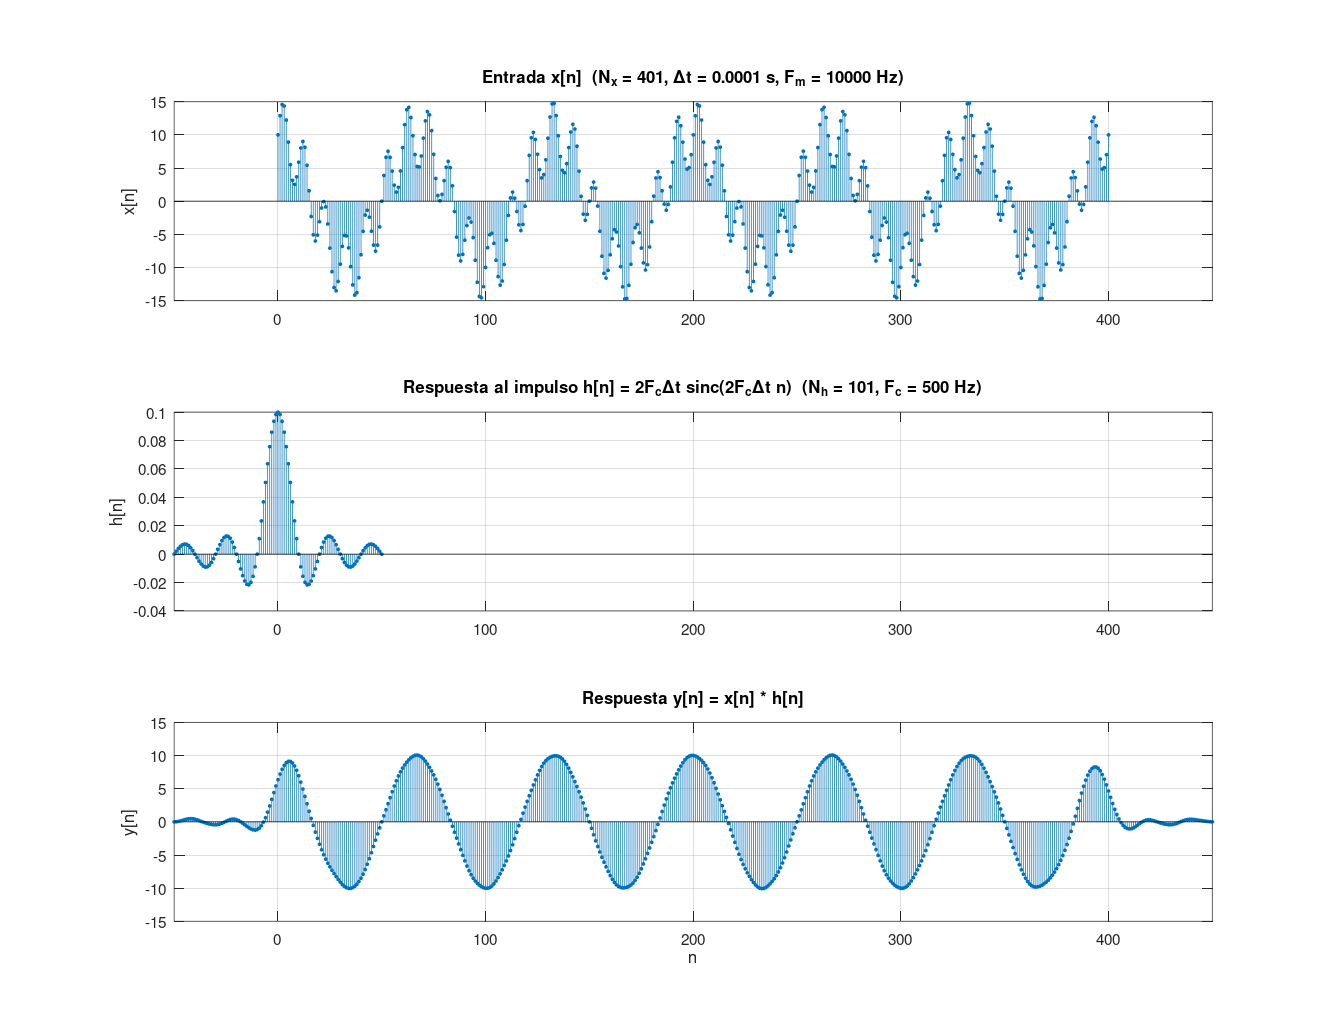
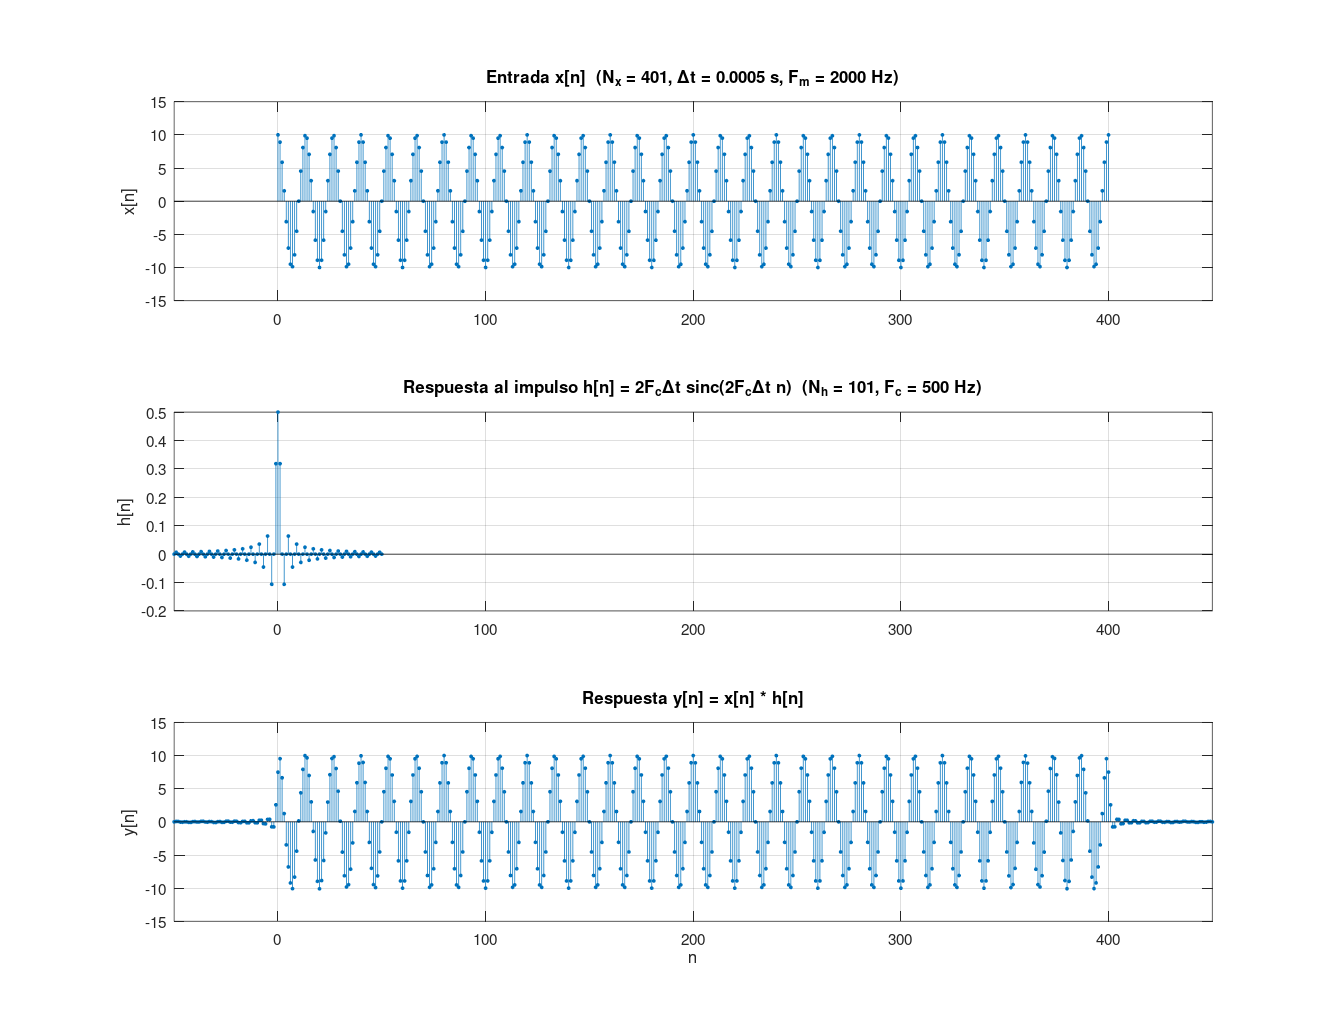
Reducir las variantes del ejercicio 2 a 4 gráficos

diff --git a/ej2_variantes.m b/ej2_variantes.m
@@ -8,12 +8,14 @@
 %    diferencias y sacar conclusiones."
 %
 % CÓMO SE RESUELVE
-%   Este archivo es un SCRIPT (no una función) que llama varias veces a la
-%   función ej2(dt, Nh, Fc) con distintos parámetros. Cada llamada abre
-%   una ventana de gráficos nueva.
+%   El caso base (dt = 0.0001, Nh = 101) es el que ya grafica ej2.m, así
+%   que acá no se repite. Este script abre solo 4 gráficos:
+%     a) dt = 0.0005 y dt = 0.001   (con Nh = 101)     -> 2 gráficos
+%     b) Nh = 21 y Nh = 201         (con dt = 0.0001)  -> 2 gráficos
+%   Cada llamada a la función ej2(dt, Nh) abre una ventana nueva.
 %
 % SINTAXIS NUEVA EN ESTE ARCHIVO
-%   for v = [a b c]      -> repite el bloque con v = a, después v = b, ...
+%   for v = [a b]        -> repite el bloque con v = a y después con v = b
 %     ...
 %   end
 %   printf(formato, valores) -> imprime texto con formato en la consola
@@ -33,14 +35,13 @@ clear; clc; close all;
 %   2*Fc*dt            -> el factor que aparece en h[n] = 2FcΔt sinc(2FcΔt n)
 %   max|y|             -> amplitud de la salida
 %
-% RESULTADOS (corridos en Octave 11.3):
-%   dt = 0.0001  Fm = 10000 Hz  2*Fc*dt = 0.10  max|y| = 10.078
+% RESULTADOS (corridos en Octave 11.3; el caso base dt = 0.0001 da 10.078):
 %   dt = 0.0005  Fm =  2000 Hz  2*Fc*dt = 0.50  max|y| = 10.089
 %   dt = 0.001   Fm =  1000 Hz  2*Fc*dt = 1.00  max|y| = 10.000
 %
 % INTERPRETACIÓN (lo más importante para las conclusiones)
-%   * dt = 0.0001 (Fm = 10 kHz): caso "bueno". Nyquist = Fm/2 = 5000 Hz,
-%     ambas componentes están bien representadas y el filtro elimina la de
+%   * Caso base dt = 0.0001 (Fm = 10 kHz, en ej2.m): Nyquist = 5000 Hz,
+%     ambas componentes bien representadas y el filtro elimina la de
 %     1000 Hz. La salida es ~10 cos(2π·150·t).
 %
 %   * dt = 0.0005 (Fm = 2 kHz): Nyquist = 1000 Hz, ¡justo la frecuencia de
@@ -55,7 +56,7 @@ clear; clc; close all;
 %     y = x (por eso max|y| = 10 exacto). Fc = 500 Hz coincide con Nyquist:
 %     el filtro deja pasar todo lo que se puede representar.
 %
-%   CONCLUSIÓN: en los dos últimos casos la salida se ve "limpia", pero no
+%   CONCLUSIÓN: en estos dos casos la salida se ve "limpia", pero no
 %   gracias al filtro sino al muestreo. Si la componente alta fuera un
 %   coseno en vez de un seno, no se anularía: aparecería disfrazada como
 %   otra frecuencia (alias), y el filtro ya no podría separarla. Moraleja:
@@ -63,7 +64,7 @@ clear; clc; close all;
 %   Otra diferencia visible: con las mismas 401 muestras, la ventana dura
 %   0.04 s, 0.2 s y 0.4 s respectivamente (Nx·dt), así que se ven 6, 30 y
 %   60 periodos de la componente de 150 Hz.
-for dt = [0.0001 0.0005 0.001]
+for dt = [0.0005 0.001]
   % Llama a ej2 y se queda solo con las dos primeras salidas (ny, y).
   [ny, y] = ej2(dt, 101);
   printf('dt = %-7g  Fm = %6g Hz  2*Fc*dt = %4.2f  max|y| = %6.3f\n', ...
@@ -71,7 +72,8 @@ for dt = [0.0001 0.0005 0.001]
 end
 
 % --- b) Variación del largo del núcleo (dt = 0.0001, Fc = 500 Hz) --------
-% Se repite con Nh = 21, 51 y 201 (el caso base era 101).
+% Se prueba un Nh más chico (21) y uno más grande (201) que el caso base
+% (101), para ver el efecto en las dos direcciones.
 % Acá no se piden salidas: ej2(...) solo abre los gráficos.
 %
 % QUÉ OBSERVAR
@@ -86,14 +88,12 @@ end
 %   * Costo de un Nh grande: más cuentas (cada y[n] suma Nh productos) y
 %     transitorios más largos en los bordes de y[n] (duran ~Nh muestras),
 %     y la salida total es más larga (Nx + Nh - 1).
-for Nh = [21 51 201]
+for Nh = [21 201]
   ej2(0.0001, Nh);
 end
 
-% --- c) Caso del ejemplo del enunciado: Fc = 1000 Hz ---------------------
-% Fc coincide con la frecuencia de la componente de 1000 Hz, por lo que
-% esa componente queda en el borde de la banda y pasa atenuada a la mitad.
-% (En el corte, la respuesta en frecuencia del filtro truncado vale ~0.5,
-%  a medio camino entre 1 (banda de paso) y 0 (banda eliminada). Por eso
-%  conviene elegir Fc bien en el medio, como los 500 Hz de los casos a y b.)
-ej2(0.0001, 101, 1000);
+% NOTA: el caso Fc = 1000 Hz (el ejemplo del enunciado) no se grafica acá
+% porque la consigna no pide variar Fc. Si lo piden en la defensa:
+%   >> ej2([], [], 1000)
+% La componente de 1000 Hz cae justo en el corte, donde la respuesta en
+% frecuencia vale ~0.5, y pasa atenuada a la mitad (amplitud ~2.5).

diff --git a/GUIA_DE_ESTUDIO.md b/GUIA_DE_ESTUDIO.md
@@ -175,7 +175,7 @@ y[n] :  0  1  3  6 10 15 15 14 12  9  5
 
 ## 4. Ejercicio 2: filtrado con una sinc
 
-**Archivos:** [`ej2.m`](ej2.m) (función) y [`ej2_variantes.m`](ej2_variantes.m) · **Figuras:** `ej2_1.png` y `ej2_variantes_1.png` a `_7.png`
+**Archivos:** [`ej2.m`](ej2.m) (función) y [`ej2_variantes.m`](ej2_variantes.m) · **Figuras:** `ej2_1.png` (caso base) y `ej2_variantes_1.png` a `_4.png`
 
 ### Consigna
 
@@ -206,6 +206,8 @@ y[n] :  0  1  3  6 10 15 15 14 12  9  5
 
 ### Variantes de Δt (Nh = 101, Fc = 500 Hz)
 
+`ej2_variantes.m` grafica solo los dos valores nuevos (0.0005 y 0.001). El de 0.0001 es el caso base que ya grafica `ej2.m`, y se incluye en la tabla para comparar.
+
 | Δt | Fm | Nyquist | 2·Fc·Δt | max\|y\| | Qué pasa |
 |---|---|---|---|---|---|
 | 0.0001 | 10 kHz | 5000 Hz | 0.1 | 10.078 | Caso correcto: el filtro elimina los 1000 Hz |
@@ -218,11 +220,15 @@ Otra diferencia: con las mismas 401 muestras, la ventana dura 0.04 s, 0.2 s y 0.
 
 ### Variantes de Nh (Δt = 0.0001)
 
+Se grafica un valor menor y uno mayor que el caso base (Nh = 101), para ver el efecto en las dos direcciones:
+
 - **Nh = 21:** entra poco más que el lóbulo central de la sinc, y el filtro es muy pobre. Deja pasar ~6 % de la componente de 1000 Hz y amplifica ~9 % la de 150 Hz (sobrepico de Gibbs). La salida se aparta hasta 1.2 de la ideal.
-- **Nh = 51, 101, 201:** cada vez más parecido al filtro ideal, con salida más limpia.
+- **Nh = 201:** la sinc está mucho más completa. El filtro se parece más al ideal y la salida es más limpia.
 - **Costo de un Nh grande:** más cuentas, transitorios más largos y una salida más larga (Nx + Nh − 1).
 
 ### Caso Fc = 1000 Hz (el ejemplo del enunciado)
+
+La consigna no pide variar Fc, así que este caso no se grafica en `ej2_variantes.m`. Si lo piden en la defensa, se corre con `ej2([], [], 1000)`.
 
 La componente de 1000 Hz cae justo en el corte, donde |H| = 0.498 (medido). Pasa **atenuada a la mitad**: amplitud ~2.5 en vez de 5. Por eso conviene una Fc bien en el medio.
 
@@ -595,7 +601,7 @@ Porque el redondeo deja una parte imaginaria de ~10⁻¹⁵ que no tiene signifi
 |---|---|---|
 | [`ej1.m`](ej1.m) | script | Ejercicio 1 |
 | [`ej2.m`](ej2.m) | función `ej2(dt, Nh, Fc, Nx)` | Ejercicio 2 (un caso) |
-| [`ej2_variantes.m`](ej2_variantes.m) | script | Las variantes de Δt, Nh y Fc |
+| [`ej2_variantes.m`](ej2_variantes.m) | script | Las variantes de Δt y Nh (4 gráficos) |
 | [`ej3.m`](ej3.m) | función `ej3(dt, Nh, Fc, Nx, N)` | Ejercicio 3 |
 | [`ej4.m`](ej4.m) | función `ej4(Fm, Nh, Fc, Nx, N)` | Ejercicio 4 |
 | [`ej4_estudios.m`](ej4_estudios.m) | script | Estudios a) a d) del Ej. 4 |
@@ -605,9 +611,9 @@ Porque el redondeo deja una parte imaginaria de ~10⁻¹⁵ que no tiene signifi
 
 **Figuras de las variantes:**
 
-- `ej2_variantes_1/2/3` = Δt de 0.0001 / 0.0005 / 0.001.
-- `ej2_variantes_4/5/6` = Nh de 21 / 51 / 201.
-- `ej2_variantes_7` = Fc = 1000 Hz.
+- `ej2_variantes_1/2` = Δt de 0.0005 / 0.001.
+- `ej2_variantes_3/4` = Nh de 21 / 201.
+- El caso base (Δt = 0.0001, Nh = 101) es `ej2_1`.
 - `ej4_estudios_1/2/3/4` = estudios a / b / c / d.
 
 Todos los números de esta guía salen de correr los scripts en Octave 11.3.
